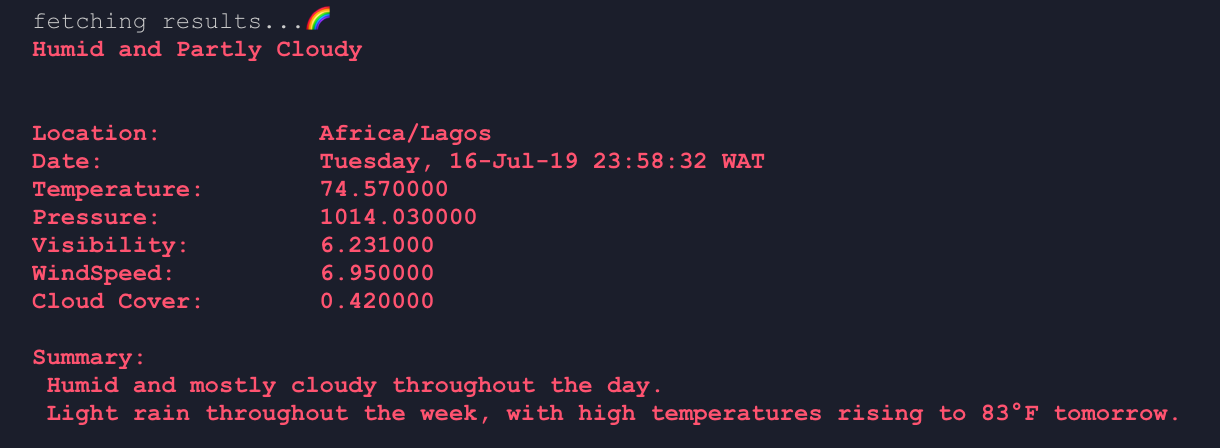
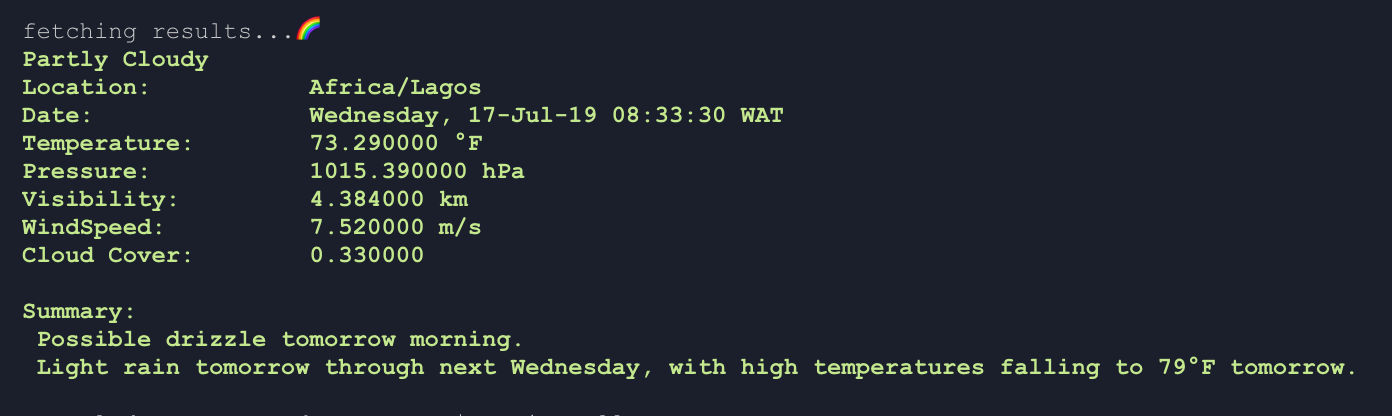
changed cli ouput color

diff --git a/main.go b/main.go
@@ -13,7 +13,7 @@ func main() {
 }
 
 func printWeatherInfo(weather CurrentWeather) {
-	color := color.New(color.FgRed).Add(color.Bold)
+	color := color.New(color.FgGreen).Add(color.Bold)
 
 	color.Printf(weather.Currently.Summary + "\n")
 
